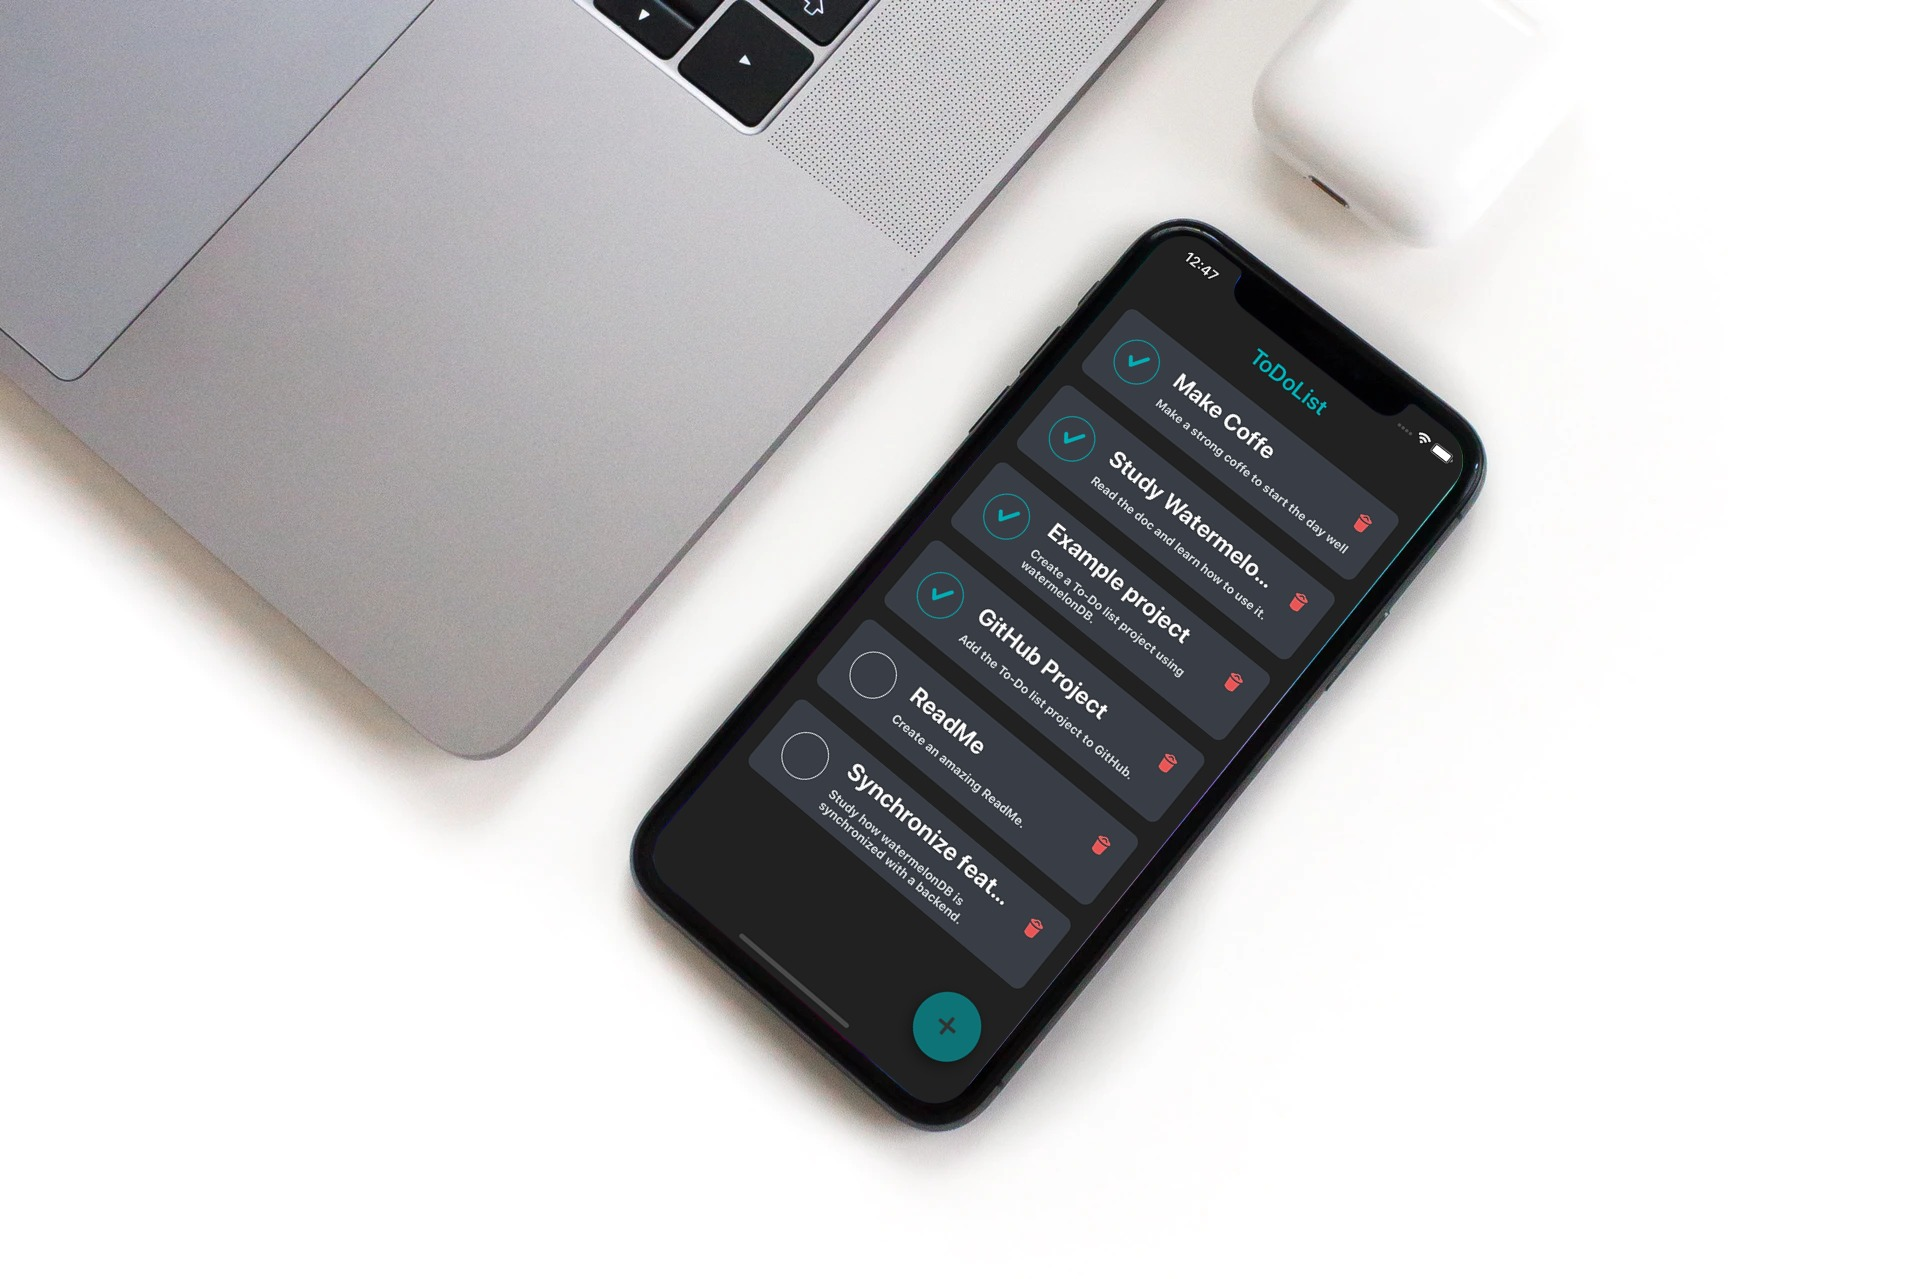
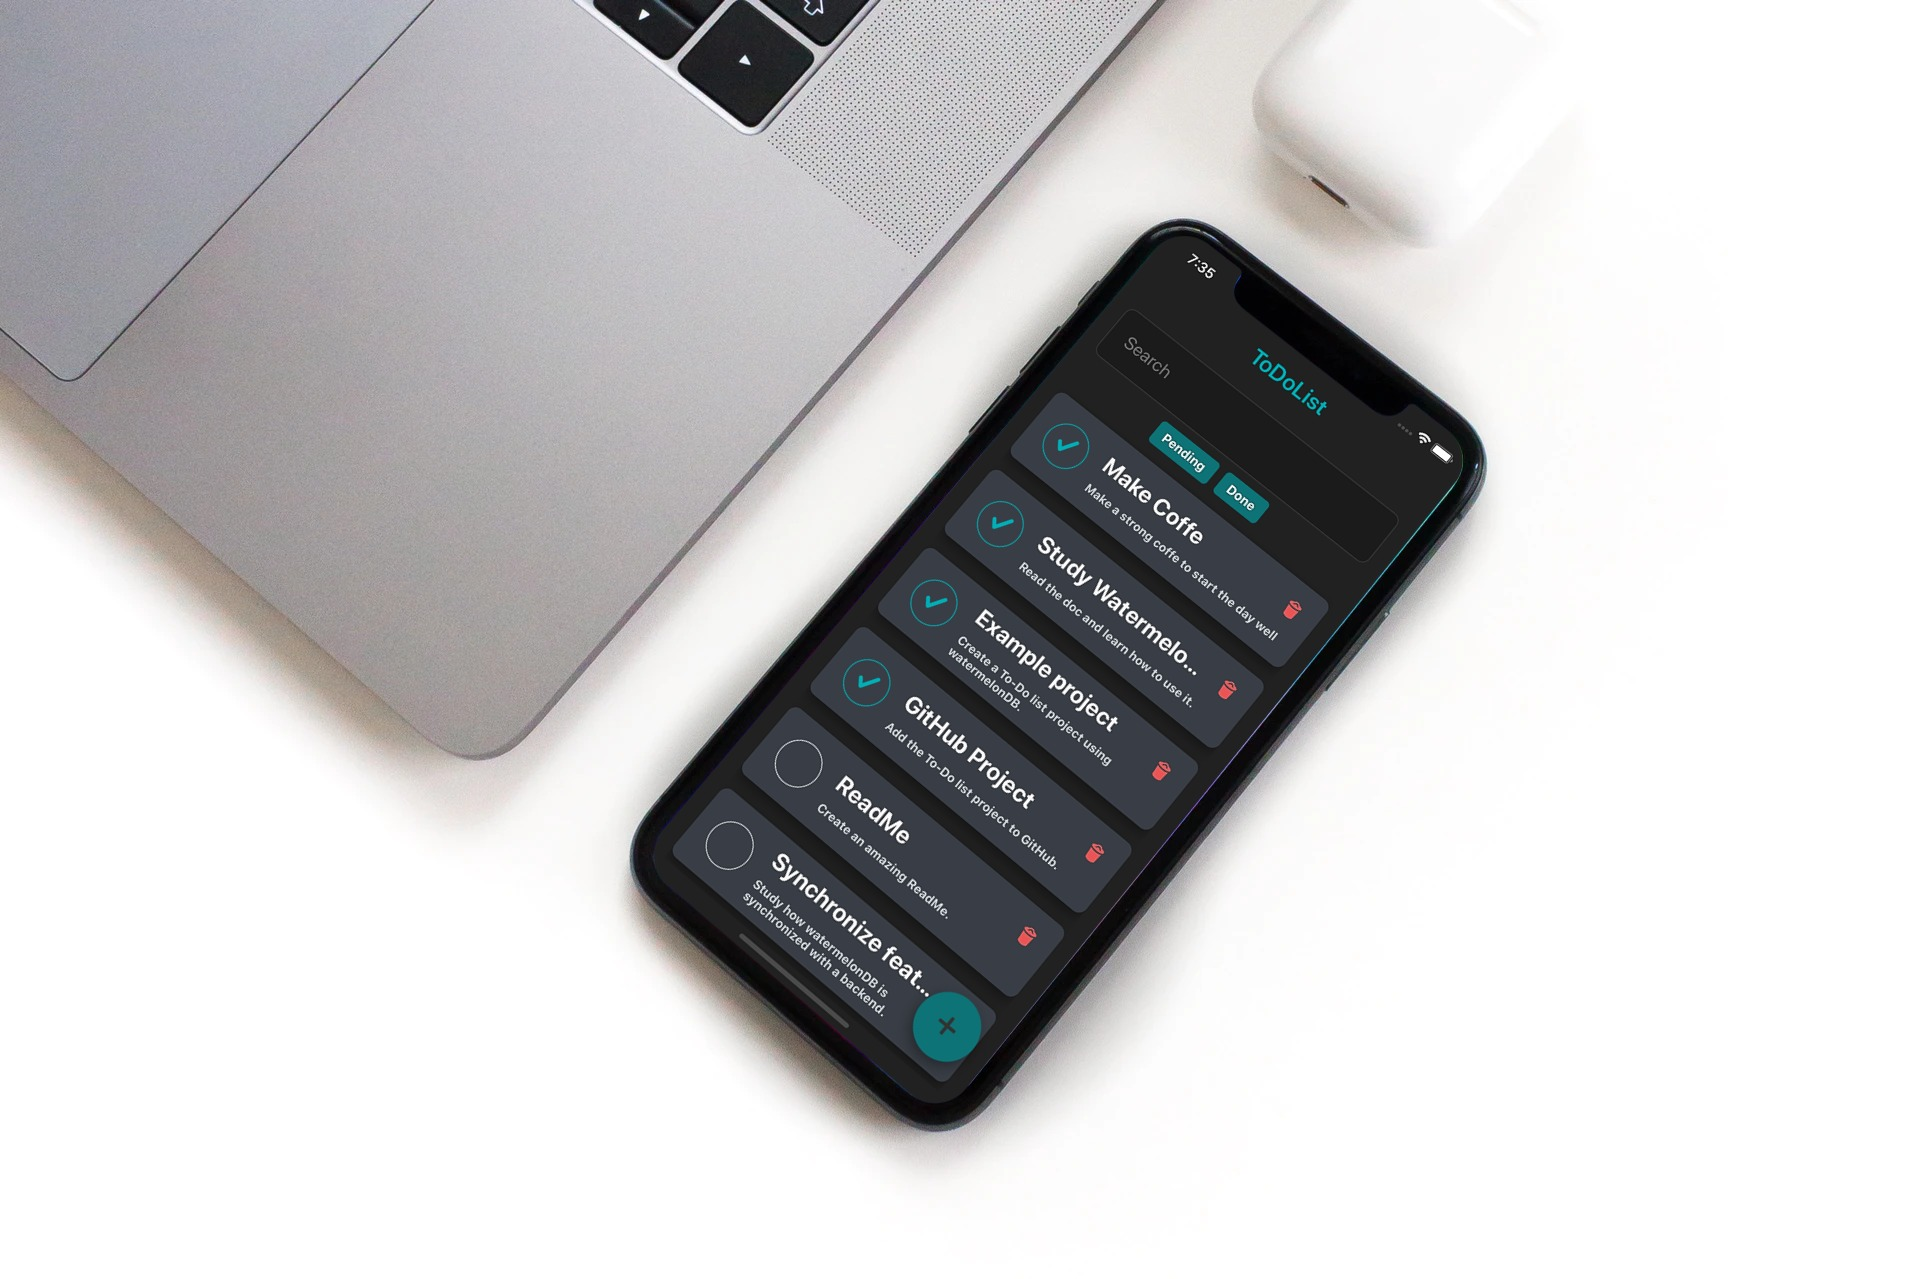
feat: Search and filter To-Do

Changed region(s): [[0.3438, 0.2439, 0.75, 0.8538]]

diff --git a/src/pages/ToDoList/index.js b/src/pages/ToDoList/index.js
@@ -1,29 +1,72 @@
-import React, {useCallback} from 'react';
-import {View, FlatList, TouchableOpacity} from 'react-native';
-import {withDatabase} from '@nozbe/watermelondb/DatabaseProvider';
-import withObservables from '@nozbe/with-observables';
+import React, {useCallback, useState} from 'react';
+import {View, TouchableOpacity, TextInput, Text} from 'react-native';
 import Icon from 'react-native-vector-icons/Entypo';
 
 Icon.loadFont();
 
-import ToDoItem from './ToDoItem';
+import ListItems from './ListItems';
 import styles from './styles';
 
 function ToDoList({todos, navigation}) {
+  const [search, setSearch] = useState('');
+  const [filter, setFilter] = useState('all');
+
   const handleNewToDo = useCallback(() => {
     navigation.navigate('NewToDo');
   }, [navigation]);
 
+  const handleTogglePending = useCallback(() => {
+    if (filter === 'all') {
+      setFilter('done');
+    } else {
+      setFilter('all');
+    }
+  }, [filter]);
+
+  const handleToggleDone = useCallback(() => {
+    if (filter === 'all') {
+      setFilter('pending');
+    } else {
+      setFilter('all');
+    }
+  }, [filter]);
+
   return (
     <View style={styles.container}>
-      <FlatList
-        data={todos}
-        keyExtractor={(todo) => todo.id}
-        renderItem={({item: todo}) => <ToDoItem todo={todo} />}
-        ItemSeparatorComponent={() => <View style={styles.itemSeparator} />}
-        contentContainerStyle={styles.toDoListContainer}
-        style={styles.toDoList}
+      <TextInput
+        placeholder="Search"
+        placeholderTextColor="#777"
+        value={search}
+        onChangeText={setSearch}
+        style={styles.input}
       />
+
+      <View style={styles.filterContainer}>
+        <TouchableOpacity
+          onPress={handleTogglePending}
+          style={[
+            styles.filterButton,
+            {
+              backgroundColor: filter === 'done' ? 'transparent' : '#0d7377',
+              marginRight: 10,
+            },
+          ]}>
+          <Text style={styles.filterText}>Pending</Text>
+        </TouchableOpacity>
+
+        <TouchableOpacity
+          onPress={handleToggleDone}
+          style={[
+            styles.filterButton,
+            {
+              backgroundColor: filter === 'pending' ? 'transparent' : '#0d7377',
+            },
+          ]}>
+          <Text style={styles.filterText}>Done</Text>
+        </TouchableOpacity>
+      </View>
+
+      <ListItems search={search} filter={filter} />
 
       <TouchableOpacity onPress={handleNewToDo} style={styles.newToDoButton}>
         <Icon name="plus" size={35} color="#323232" />
@@ -32,8 +75,4 @@ function ToDoList({todos, navigation}) {
   );
 }
 
-const enhance = withObservables(['todos'], ({database}) => ({
-  todos: database.collections.get('todos').query(),
-}));
-
-export default withDatabase(enhance(ToDoList));
+export default ToDoList;

diff --git a/src/pages/ToDoList/ListItems/index.js b/src/pages/ToDoList/ListItems/index.js
@@ -1,0 +1,40 @@
+import React from 'react';
+import {View, FlatList} from 'react-native';
+import withObservables from '@nozbe/with-observables';
+import {Q} from '@nozbe/watermelondb';
+import {withDatabase} from '@nozbe/watermelondb/DatabaseProvider';
+
+import ToDoItem from './ToDoItem';
+
+import styles from './styles';
+
+function ListItems({todos}) {
+  return (
+    <FlatList
+      data={todos}
+      keyExtractor={(todo) => todo.id}
+      renderItem={({item: todo}) => <ToDoItem todo={todo} />}
+      ItemSeparatorComponent={() => <View style={styles.itemSeparator} />}
+      contentContainerStyle={styles.toDoListContainer}
+      showsVerticalScrollIndicator={false}
+      style={styles.toDoList}
+    />
+  );
+}
+
+const enhance = withObservables(
+  ['todos', 'search', 'filter'],
+  ({database, search, filter}) => ({
+    todos: database.collections
+      .get('todos')
+      .query(
+        Q.where('title', Q.like(`%${Q.sanitizeLikeString(search)}%`)),
+        Q.where(
+          'done',
+          filter === 'all' ? Q.oneOf([true, false]) : filter === 'done',
+        ),
+      ),
+  }),
+);
+
+export default withDatabase(enhance(ListItems));

diff --git a/src/pages/ToDoList/styles.js b/src/pages/ToDoList/styles.js
@@ -5,21 +5,39 @@ export default StyleSheet.create({
     flex: 1,
     alignItems: 'center',
     backgroundColor: '#212121',
-  },
-
-  toDoList: {
-    width: '100%',
-  },
-
-  toDoListContainer: {
-    width: '100%',
     padding: 20,
-    paddingBottom: 120,
   },
 
-  itemSeparator: {
-    width: 1,
-    height: 20,
+  input: {
+    backgroundColor: '#00000030',
+    width: '100%',
+    borderRadius: 10,
+    padding: 20,
+    color: '#fff',
+    fontSize: 20,
+    borderWidth: 1,
+    borderColor: '#77777750',
+  },
+
+  filterContainer: {
+    flexDirection: 'row',
+    width: '100%',
+    justifyContent: 'center',
+    paddingVertical: 10,
+  },
+
+  filterButton: {
+    borderWidth: 1,
+    borderColor: '#0d7377',
+    paddingVertical: 5,
+    paddingHorizontal: 10,
+    borderRadius: 5,
+    marginRight: 10,
+  },
+
+  filterText: {
+    color: '#fff',
+    fontWeight: 'bold',
   },
 
   newToDoButton: {

diff --git a/src/pages/ToDoList/ListItems/ToDoItem/styles.js b/src/pages/ToDoList/ListItems/ToDoItem/styles.js
@@ -6,6 +6,16 @@ export default StyleSheet.create({
     backgroundColor: '#393e46',
     borderRadius: 10,
     flexDirection: 'row',
+
+    shadowColor: '#000',
+    shadowOffset: {
+      width: 0,
+      height: 6,
+    },
+    shadowOpacity: 0.37,
+    shadowRadius: 7.49,
+
+    elevation: 12,
   },
 
   checkButton: {

diff --git a/src/pages/ToDoList/ListItems/styles.js b/src/pages/ToDoList/ListItems/styles.js
@@ -1,0 +1,18 @@
+import {StyleSheet} from 'react-native';
+
+export default StyleSheet.create({
+  toDoList: {
+    width: '100%',
+  },
+
+  toDoListContainer: {
+    width: '100%',
+    paddingVertical: 20,
+    paddingBottom: 120,
+  },
+
+  itemSeparator: {
+    width: 1,
+    height: 20,
+  },
+});
